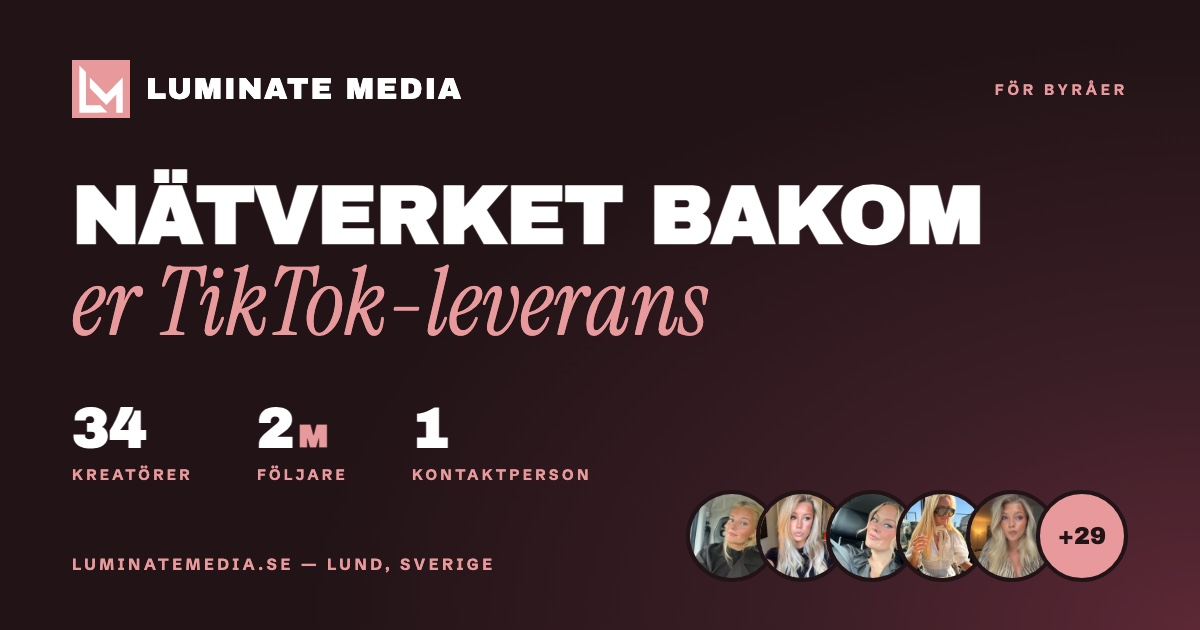
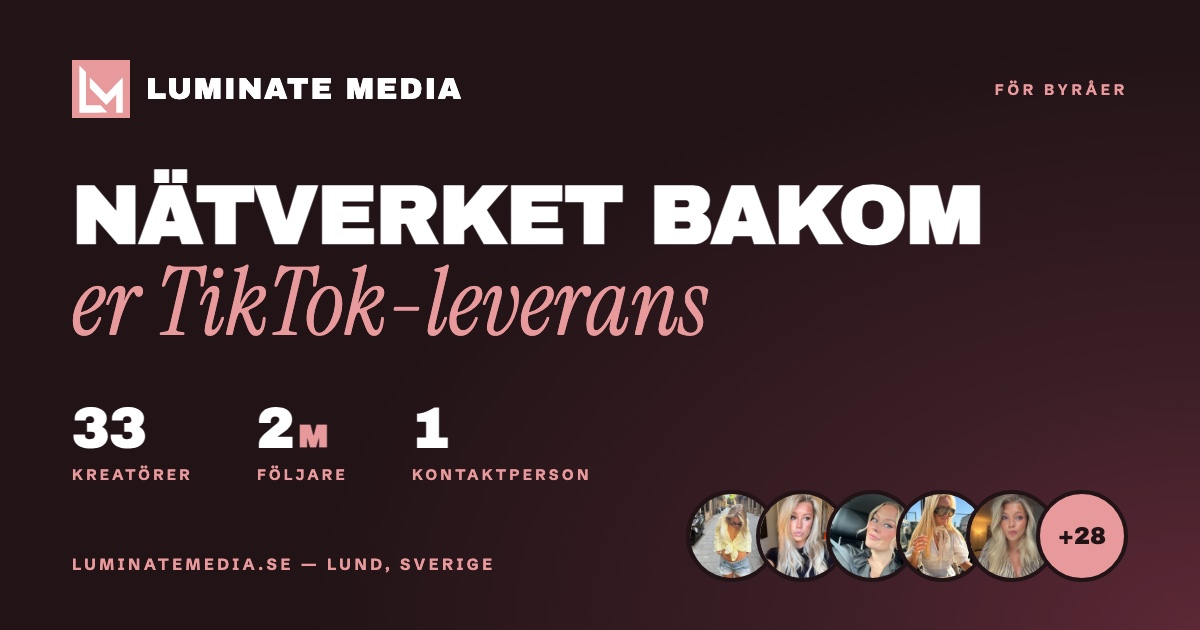
Siffror från Awaknd-presentationen 10 okt: case för två kampanjer 2026, Spark Ads-resultat, belagda källor, 33 kreatörer exakt, största videon 8 M, stale konton ur stats.json

Changed region(s): [[0.555, 0.7841, 0.6475, 0.9349], [0.0925, 0.6333, 0.1233, 0.7238]]

diff --git a/index.html b/index.html
@@ -174,7 +174,7 @@
    "name": "Hur mycket räckvidd ger en svensk TikTok-kreatör?",
    "acceptedAnswer": {
     "@type": "Answer",
-    "text": "Medianen i vårt nätverk är cirka 35 000 visningar per video. Ett konto i toppklassen 190–300K följare når omkring 77 000 visningar per video, medan ett mikrokonto på 5–20K följare når omkring 27 000. Räckvidd följer alltså inte följarantalet rakt av — vi publicerar hela mätningen öppet på vår benchmarksida."
+    "text": "Medianen i vårt nätverk är cirka 30 000 visningar per video. Ett konto i toppklassen, över 150K följare, når omkring 70 000 visningar per video, medan ett mikrokonto på 5–20K följare når omkring 20 000. Räckvidd följer alltså inte följarantalet rakt av — vi publicerar hela mätningen öppet på vår benchmarksida."
    }
   },
   {
@@ -190,7 +190,7 @@
    "name": "Vad är Spark Ads?",
    "acceptedAnswer": {
     "@type": "Answer",
-    "text": "Spark Ads innebär att ni annonserar med kreatörens organiska video från ert eget annonskonto, med hennes namn och engagemang kvar. Hos oss köps rättigheterna först efter publicering — ni har 14 dagar på er att välja vilka videor ni vill förstärka, med de organiska siffrorna framför er. Påslaget är 25 % av grundpriset för 30 dagar och upp till 90 % för ett år."
+    "text": "Spark Ads innebär att ni annonserar med kreatörens organiska video från ert eget annonskonto, med hennes namn och engagemang kvar. Hos oss köps rättigheterna först efter publicering — ni har 14 dagar på er att välja vilka videor ni vill förstärka, med de organiska siffrorna framför er. Påslaget är 25 % av grundpriset för 30 dagar och upp till 90 % för ett år. I vår höstkampanj 2026 gav Spark Ads 3,1 gånger den organiska räckvidden på en vecka, och ett klick kostade 0,75 kr mot runt 10 kr i branschsnitt."
    }
   },
   {
@@ -520,6 +520,7 @@ nav.scrolled{
 @media (max-width:720px){.sub-grid{grid-template-columns:1fr}}
 .sub{border-top:1px solid rgba(255,255,255,.28);padding:20px 0}
 .sub .label{display:block;margin-bottom:8px;color:var(--ink)}
+.sub small{display:block;margin-top:8px;font-size:11px;letter-spacing:.02em;opacity:.7}
 .sub p{font-size:15.5px;font-weight:500;line-height:1.7}
 .svc-body .book{margin-top:30px}
 
@@ -1090,19 +1091,19 @@ body.bm-open{overflow:hidden}
       <div class="stat-lbl">Totala likes</div>
     </div>
     <div class="stat reveal" style="transition-delay:.16s">
-      <div class="stat-num" id="stat-creators" data-target="30" data-suffix="+">30<small>+</small></div>
+      <div class="stat-num" id="stat-creators" data-target="33" data-suffix="">33<small></small></div>
       <div class="stat-lbl">Kreatörer i nätverket</div>
     </div>
     <div class="stat reveal" style="transition-delay:.24s">
-      <div class="stat-num" data-target="13" data-suffix="M">13<small>M</small></div>
+      <div class="stat-num" data-target="8" data-suffix="M">8<small>M</small></div>
       <div class="stat-lbl">Visningar — största videon</div>
     </div>
   </div>
   <div class="stat-chips reveal">
     <span class="chip chip-growth" id="growth-chip" hidden></span>
-    <span class="chip">≈1,5M visningar när alla postar en video</span>
+    <span class="chip" id="reach-chip">≈1,5M visningar när alla postar en video</span>
     <span class="chip">Rosterförslag inom 48 timmar</span>
-    <span class="chip">11 kreatörer med videor över 1M visningar</span>
+    <span class="chip">25+ kreatörer med videor över 1M visningar</span>
     <span class="chip">Mode · Beauty · Lifestyle</span>
   </div>
   <p class="stat-note reveal"><strong>Varje siffra på den här sidan hämtades från TikTok i natt.</strong> Vi läser av alla kreatörers konton automatiskt varje dygn. Snittvisningar räknas på de senaste 20 videorna per kreatör — inga gamla genomsnitt, inga påhittade räckviddstal.</p>
@@ -1167,7 +1168,7 @@ body.bm-open{overflow:hidden}
       <div class="svc-body">
         <p>TikTok är där er nästa kund redan är — men räckvidd köper man inte, den förtjänas genom rätt creators med rätt innehåll. Vi gör det enkelt för er att vara där, utan att bygga egen kompetens eller lägga interna timmar.</p>
         <div class="sub-grid">
-          <div class="sub"><span class="label">Varför creators</span><p>En rekommendation från rätt creator väger tyngre än någon annons. Creators har trovärdigheten och relationen till målgruppen som varumärken inte kan köpa sig till — vi ser till att den trovärdigheten arbetar för er.</p></div>
+          <div class="sub"><span class="label">Varför creators</span><p>En rekommendation från rätt creator väger tyngre än någon annons: 69 % litar mer på en rekommendation från en vän eller influencer än på varumärket självt, och 53 % av dem som ser influencerreklam har köpt något en influencer tipsat om. Den trovärdigheten kan ett varumärke inte köpa sig till — vi ser till att den arbetar för er.<small>Matter Communications 2023 · BEUC 2023, åtta EU-länder inkl. Sverige</small></p></div>
           <div class="sub"><span class="label">En partner, hela vägen</span><p>Strategi, urval, produktion, publicering, annonsering och rapport — ett avtal, en kontaktperson, ett ansvar. Ni behöver inte koordinera mellan byråer, creators och plattformar. Det gör vi.</p></div>
           <div class="sub"><span class="label">Er insats</span><p>Ni godkänner manus och video — resten sköter vi. En typisk kampanj kostar er ett fåtal timmar totalt, från brief till slutrapport.</p></div>
         </div>
@@ -1314,6 +1315,17 @@ body.bm-open{overflow:hidden}
   <h2 class="reveal">Räknat på <em class="acc">riktiga resultat</em></h2>
 
   <div class="case-item">
+    <p class="case-intro reveal">Två kampanjer 2026 — tio kreatörer, elva reklamvideor. Organiskt först, sedan Spark Ads på det som redan bar.</p>
+    <div class="case-nums">
+      <div class="cn-row reveal"><b class="case-num" data-cn="1.48" data-dec="2" data-suf=" M">1,48 M</b><span>visningar — 2 095 sparningar, 754 delningar</span></div>
+      <div class="cn-row reveal" style="transition-delay:.08s"><b class="case-num">+17 %</b><span>engagemang mot kreatörernas vanliga videor — reklam tappar normalt 13 %</span></div>
+      <div class="cn-row reveal" style="transition-delay:.16s"><b class="case-num" data-cn="3.1" data-dec="1" data-suf="×">3,1×</b><span>räckvidd på en vecka när Spark Ads lades på</span></div>
+      <div class="cn-row reveal" style="transition-delay:.24s"><b class="case-num" data-cn="0.75" data-dec="2" data-suf=" kr">0,75 kr</b><span>per klick — mot runt 10 kr i branschsnitt</span></div>
+    </div>
+    <p class="case-line reveal">Höstkampanjen: sju videor fick 226 137 visningar på elva dagar utan annonsbudget. Spark Ads på vinnarna gav 475 663 visningar till på sju dagar. Åtta av elva videor slog kreatörens eget engagemang — reklam generellt klarar det tre gånger av tio. Vårkampanjen: fyra videor, 250 100 visningar, helt organiskt.</p>
+  </div>
+
+  <div class="case-item">
     <p class="case-intro reveal">JBJ Clothing — fyra creator-videos, en höstkampanj.</p>
     <div class="case-nums">
       <div class="cn-row reveal"><b class="case-num" data-cn="968800" data-suf="">968 800</b><span>organiska visningar</span></div>
@@ -1326,14 +1338,14 @@ body.bm-open{overflow:hidden}
   <div class="case-item">
     <p class="case-intro reveal">The Perfume Brand — parfym i stället för arvode.</p>
     <div class="case-nums">
-      <div class="cn-row reveal"><b class="case-num" data-cn="108617" data-suf="">108 617</b><span>visningar</span></div>
-      <div class="cn-row reveal" style="transition-delay:.08s"><b class="case-num" data-cn="7.6" data-dec="1" data-suf=" %">7,6 %</b><span>engagemang — mot 4–5 % branschsnitt</span></div>
+      <div class="cn-row reveal"><b class="case-num" data-cn="111614" data-suf="">111 614</b><span>visningar</span></div>
+      <div class="cn-row reveal" style="transition-delay:.08s"><b class="case-num" data-cn="7.5" data-dec="1" data-suf=" %">7,5 %</b><span>engagemang — mot 4–5 % branschsnitt</span></div>
       <div class="cn-row reveal" style="transition-delay:.16s"><b class="case-num">3–10×</b><span>fler visningar än samma summa som köpt annons</span></div>
     </div>
     <p class="case-line reveal">Kreatörerna fick parfym i stället för kontant arvode, så varumärkets insats var tillverkningskostnaden för flaskorna. Räknat mot vad samma summa hade gett som köpt annonsering gav de fyra publicerade videorna flera gånger räckvidden — och en kreatörs rekommendation på köpet. Upplägget passar när produkten i sig är attraktiv nog att bära samarbetet.</p>
   </div>
 
-  <p class="case-note reveal">Engagemang räknas likadant i båda casen: likes, kommentarer och delningar delat med visningar, mätt direkt på TikTok. Branschsnittet 4–5 % avser sponsrat innehåll på plattformen. Räckviddsjämförelsen utgår från publicerade CPM-nivåer för TikTok-annonsering 2026, ca 4–13 USD per 1 000 visningar, och visar hur många fler visningar samma insats gav organiskt. För Perfume Brand bygger den på vår egen uppskattning av produkternas tillverkningskostnad, inte på en uppgift från varumärket.</p>
+  <p class="case-note reveal">Kampanjerna 2026 redovisas utan varumärkesnamn; visningar, sparningar och delningar är avlästa direkt på TikTok 11 oktober 2026 och Spark Ads-siffrorna ur kampanjens annonskonto. Branschsnittet för klick, cirka 10 kr, är WebFX TikTok Marketing Benchmarks 2026. Engagemang räknas likadant i alla casen: likes, kommentarer och delningar delat med visningar, mätt direkt på TikTok. Branschsnittet 4–5 % avser sponsrat innehåll på plattformen. Räckviddsjämförelsen utgår från publicerade CPM-nivåer för TikTok-annonsering 2026, ca 4–13 USD per 1 000 visningar, och visar hur många fler visningar samma insats gav organiskt. För Perfume Brand bygger den på vår egen uppskattning av produkternas tillverkningskostnad, inte på en uppgift från varumärket.</p>
   <div class="reveal"><a class="book js-book" href="https://calendar.app.google/8vFghCDtFN2itfJU8" target="_blank" rel="noopener">Vi gör samma sak för er →</a></div>
 </section>
 
@@ -1351,7 +1363,7 @@ body.bm-open{overflow:hidden}
     </div>
     <div class="faq-item reveal">
       <h3>Hur mycket räckvidd ger en svensk TikTok-kreatör?</h3>
-      <p>Medianen i vårt nätverk är cirka 35 000 visningar per video. Ett konto i toppklassen 190–300K följare når omkring 77 000 visningar per video, medan ett mikrokonto på 5–20K följare når omkring 27 000. Räckvidd följer alltså inte följarantalet rakt av — vi publicerar hela mätningen öppet på vår benchmarksida.</p>
+      <p>Medianen i vårt nätverk är cirka 30 000 visningar per video. Ett konto i toppklassen, över 150K följare, når omkring 70 000 visningar per video, medan ett mikrokonto på 5–20K följare når omkring 20 000. Räckvidd följer alltså inte följarantalet rakt av — vi publicerar hela mätningen öppet på vår benchmarksida.</p>
     </div>
     <div class="faq-item reveal">
       <h3>Vad är skillnaden mellan UGC och influencer marketing?</h3>
@@ -1359,7 +1371,7 @@ body.bm-open{overflow:hidden}
     </div>
     <div class="faq-item reveal">
       <h3>Vad är Spark Ads?</h3>
-      <p>Spark Ads innebär att ni annonserar med kreatörens organiska video från ert eget annonskonto, med hennes namn och engagemang kvar. Hos oss köps rättigheterna först efter publicering — ni har 14 dagar på er att välja vilka videor ni vill förstärka, med de organiska siffrorna framför er. Påslaget är 25 % av grundpriset för 30 dagar och upp till 90 % för ett år.</p>
+      <p>Spark Ads innebär att ni annonserar med kreatörens organiska video från ert eget annonskonto, med hennes namn och engagemang kvar. Hos oss köps rättigheterna först efter publicering — ni har 14 dagar på er att välja vilka videor ni vill förstärka, med de organiska siffrorna framför er. Påslaget är 25 % av grundpriset för 30 dagar och upp till 90 % för ett år. I vår höstkampanj 2026 gav Spark Ads 3,1 gånger den organiska räckvidden på en vecka, och ett klick kostade 0,75 kr mot runt 10 kr i branschsnitt.</p>
     </div>
     <div class="faq-item reveal">
       <h3>Hur lång tid tar en kampanj?</h3>
@@ -1848,9 +1860,9 @@ Promise.all([
   if (le.dataset.done) le.innerHTML = fmt(lv, 0) + '<small>M+</small>';
   const ce = document.getElementById('stat-creators');
   if (ce && d.totals.creators) {
-    const cvv = Math.floor(d.totals.creators / 5) * 5;
+    const cvv = d.totals.creators;
     ce.dataset.target = cvv;
-    if (ce.dataset.done) ce.innerHTML = fmt(cvv, 0) + '<small>+</small>';
+    if (ce.dataset.done) ce.innerHTML = fmt(cvv, 0) + '<small></small>';
   }
   const dt = new Date(d.updated), MON = ['jan','feb','mars','april','maj','juni','juli','aug','sep','okt','nov','dec'];
   if (!isNaN(dt)) {
@@ -1865,6 +1877,10 @@ Promise.all([
     p.textContent = (v >= 1e5 ? Math.round(v/1e3) : ((Math.round(v/100)/10) + '').replace('.', ',')) + 'K följare';
   });
   if (V && V.creators) {
+    let reach = 0;
+    for (const h in d.creators) { const c = V.creators[h]; if (c && c.avg) reach += c.avg; }
+    const rc = document.getElementById('reach-chip');
+    if (rc && reach > 0) rc.textContent = '≈' + (Math.round(reach / 1e5) / 10 + '').replace('.', ',') + 'M visningar när alla postar en video';
     const kv = v => (v >= 1e5 ? Math.round(v/1e3) : (Math.round(v/100)/10 + '').replace('.', ',')) + 'K';
     document.querySelectorAll('.ccard[data-handle]').forEach(card => {
       const c = V.creators[card.dataset.handle];

diff --git a/benchmark.html b/benchmark.html
@@ -4,7 +4,7 @@
 <meta charset="UTF-8">
 <meta name="viewport" content="width=device-width, initial-scale=1.0">
 <title>TikTok-benchmark: mode &amp; beauty i Sverige — Luminate Media</title>
-<meta name="description" content="Hur många visningar ger en svensk TikTok-kreatör per video? Medianvisningar per storleksklass — ett toppkonto når 3,3× så många som ett mikrokonto. Mätt på 32 svenska kreatörer inom mode och beauty, 11 oktober 2026.">
+<meta name="description" content="Hur många visningar ger en svensk TikTok-kreatör per video? Medianvisningar per storleksklass — ett toppkonto når 2,4× så många som ett mikrokonto. Mätt på 31 svenska kreatörer inom mode och beauty, 11 oktober 2026.">
 <link rel="icon" href="/favicon.ico" sizes="48x48">
 <link rel="icon" type="image/png" href="/assets/luminate-icon-96.png" sizes="96x96">
 <link rel="icon" type="image/png" href="/assets/luminate-icon-192.png" sizes="192x192">
@@ -15,7 +15,7 @@
 <meta property="og:type" content="article">
 <meta property="og:url" content="https://www.luminatemedia.se/benchmark.html">
 <meta property="og:title" content="TikTok-benchmark: mode &amp; beauty i Sverige">
-<meta property="og:description" content="En video från ett toppkonto når 3,3× så många som en video från ett mikrokonto — 68 060 mot 20 380 visningar. Mätt på 32 svenska kreatörer.">
+<meta property="og:description" content="En video från ett toppkonto når 2,4× så många som en video från ett mikrokonto — 68 060 mot 28 923 visningar. Mätt på 31 svenska kreatörer.">
 <meta property="og:image" content="https://www.luminatemedia.se/assets/og-benchmark.jpg">
 <meta name="twitter:card" content="summary_large_image">
 <link rel="preload" href="/assets/fonts/archivo-black.woff2" as="font" type="font/woff2" crossorigin>
@@ -98,11 +98,11 @@ display:flex;justify-content:space-between;gap:12px;flex-wrap:wrap}
 
   <div class="key">
     <div class="key-fig">
-      <b>3,3×</b>
+      <b>2,4×</b>
       <span>så mycket räckvidd ger<br>en video från ett toppkonto</span>
     </div>
     <div class="key-body">
-      <p class="key-line"><strong>68 060</strong> visningar från ett konto i toppklassen. <strong>20 380</strong> från ett mikrokonto. För att nå lika långt behövs alltså tre mikrokonton — tre samarbeten, tre manus och tre tidplaner i stället för ett.</p>
+      <p class="key-line"><strong>68 060</strong> visningar från ett konto i toppklassen. <strong>28 923</strong> från ett mikrokonto. För att nå lika långt behövs alltså tre mikrokonton — tre samarbeten, tre manus och tre tidplaner i stället för ett.</p>
       <p class="key-sub">Toppkontona bär dessutom igenkänning. En profil publiken redan känner konverterar annorlunda när videon förstärks som Spark Ad, och det är där annonsbudgeten betalar sig.</p>
     </div>
   </div>
@@ -116,10 +116,10 @@ display:flex;justify-content:space-between;gap:12px;flex-wrap:wrap}
     <tbody>
       <tr>
         <th scope="row">5–20K</th>
-        <td class="num big">20 380</td>
-        <td class="bar"><span style="width:30%"></span></td>
-        <td class="num dim">6</td>
-        <td class="num dim">1,65×</td>
+        <td class="num big">28 923</td>
+        <td class="bar"><span style="width:42%"></span></td>
+        <td class="num dim">5</td>
+        <td class="num dim">1,69×</td>
       </tr>
       <tr>
         <th scope="row">20–60K</th>
@@ -152,7 +152,7 @@ display:flex;justify-content:space-between;gap:12px;flex-wrap:wrap}
     </tbody>
   </table>
   </div>
-  <p class="note"><strong>Metod:</strong> 32 svenska TikTok-kreatörer inom mode, beauty och lifestyle — samtliga i Luminate Medias nätverk. Snittvisningar räknas på de senaste 20 videorna per kreatör, hämtade direkt från TikTok 11 oktober 2026. Vi visar median i varje klass så att en enskild viral video inte drar upp resultatet. Hela nätverkets median: 32 275 visningar per video. Kolumnen längst till höger visar visningar per följare — mikrokonton ligger högre där, men når färre personer totalt, och det är totalen som avgör en kampanjs räckvidd. Underlaget är vårt eget nätverk, inte ett slumpmässigt urval av svenska konton — läs siffrorna som en branschindikation, inte som officiell statistik.</p>
+  <p class="note"><strong>Metod:</strong> 31 svenska TikTok-kreatörer inom mode, beauty och lifestyle — samtliga i Luminate Medias nätverk. Snittvisningar räknas på de senaste 20 videorna per kreatör, hämtade direkt från TikTok 11 oktober 2026. Vi visar median i varje klass så att en enskild viral video inte drar upp resultatet. Hela nätverkets median: 32 693 visningar per video. Kolumnen längst till höger visar visningar per följare — mikrokonton ligger högre där, men når färre personer totalt, och det är totalen som avgör en kampanjs räckvidd. Underlaget är vårt eget nätverk, inte ett slumpmässigt urval av svenska konton — läs siffrorna som en branschindikation, inte som officiell statistik.</p>
 
   <div class="cta">
     <a class="book" href="https://calendar.app.google/8vFghCDtFN2itfJU8" target="_blank" rel="noopener">Boka möte →</a>

diff --git a/priser.html b/priser.html
@@ -52,7 +52,7 @@
    "name": "Vad kostar Spark Ads?",
    "acceptedAnswer": {
     "@type": "Answer",
-    "text": "Spark Ads-rättigheter är ett påslag på kreatörens grundpris: +25 % för 30 dagar upp till +90 % för 12 månader. Ni köper dem först efter publicering, när ni sett vilka videor som presterat organiskt. Mediebudgeten betalar ni själva i ert eget annonskonto."
+    "text": "Spark Ads-rättigheter är ett påslag på kreatörens grundpris: +25 % för 30 dagar upp till +90 % för 12 månader. Ni köper dem först efter publicering, när ni sett vilka videor som presterat organiskt. Mediebudgeten betalar ni själva i ert eget annonskonto. I höstkampanjen 2026 gav Spark Ads 3,1 gånger den organiska räckvidden på en vecka."
    }
   },
   {
@@ -68,7 +68,7 @@
    "name": "Vad kostar det jämfört med att köpa annonsräckvidd?",
    "acceptedAnswer": {
     "@type": "Answer",
-    "text": "Publicerade CPM-nivåer för TikTok-annonsering 2026 ligger på ungefär 4–13 USD per 1 000 visningar. Organisk räckvidd genom creators har i våra kampanjer legat väsentligt under det, samtidigt som en rekommendation från en kreatör bär en trovärdighet en annons inte har."
+    "text": "Publicerade CPM-nivåer för TikTok-annonsering 2026 ligger på ungefär 4–13 USD per 1 000 visningar. Organisk räckvidd genom creators har i våra kampanjer legat väsentligt under det, samtidigt som en rekommendation från en kreatör bär en trovärdighet en annons inte har. När vi lade Spark Ads på kampanjvideorna hösten 2026 kostade ett klick 0,75 kr mot runt 10 kr i branschsnitt."
    }
   }
  ]
@@ -280,6 +280,7 @@ display:flex;justify-content:space-between;gap:12px;flex-wrap:wrap}
   </table>
   </div>
   <p class="note">Mediebudgeten betalar ni själva i ert eget annonskonto och äger den fullt ut. Vill ni att vi sätter upp och optimerar kampanjerna tar vi 15 % av mediespenden.</p>
+  <p class="note">I vår höstkampanj 2026 gav Spark Ads 3,1 gånger den organiska räckvidden på en vecka. Ett klick kostade 0,75 kr mot runt 10 kr i branschsnitt, och en tittare som stannade i sex sekunder 0,06 kr — under TikToks eget pris för en vanlig visning.</p>
 
   <h2>Räkneexempel</h2>
   <p class="intro">Färdiga upplägg med organiska rättigheter, inklusive de 3 kreatörerna som följer med utan kostnad.</p>
@@ -326,7 +327,7 @@ display:flex;justify-content:space-between;gap:12px;flex-wrap:wrap}
     </div>
     <div class="faq-item">
       <h3>Vad kostar Spark Ads?</h3>
-      <p>Spark Ads-rättigheter är ett påslag på kreatörens grundpris: +25 % för 30 dagar upp till +90 % för 12 månader. Ni köper dem först efter publicering, när ni sett vilka videor som presterat organiskt. Mediebudgeten betalar ni själva i ert eget annonskonto.</p>
+      <p>Spark Ads-rättigheter är ett påslag på kreatörens grundpris: +25 % för 30 dagar upp till +90 % för 12 månader. Ni köper dem först efter publicering, när ni sett vilka videor som presterat organiskt. Mediebudgeten betalar ni själva i ert eget annonskonto. I höstkampanjen 2026 gav Spark Ads 3,1 gånger den organiska räckvidden på en vecka.</p>
     </div>
     <div class="faq-item">
       <h3>Finns det någon minsta beställning?</h3>
@@ -334,7 +335,7 @@ display:flex;justify-content:space-between;gap:12px;flex-wrap:wrap}
     </div>
     <div class="faq-item">
       <h3>Vad kostar det jämfört med att köpa annonsräckvidd?</h3>
-      <p>Publicerade CPM-nivåer för TikTok-annonsering 2026 ligger på ungefär 4–13 USD per 1 000 visningar. Organisk räckvidd genom creators har i våra kampanjer legat väsentligt under det, samtidigt som en rekommendation från en kreatör bär en trovärdighet en annons inte har.</p>
+      <p>Publicerade CPM-nivåer för TikTok-annonsering 2026 ligger på ungefär 4–13 USD per 1 000 visningar. Organisk räckvidd genom creators har i våra kampanjer legat väsentligt under det, samtidigt som en rekommendation från en kreatör bär en trovärdighet en annons inte har. När vi lade Spark Ads på kampanjvideorna hösten 2026 kostade ett klick 0,75 kr mot runt 10 kr i branschsnitt.</p>
     </div>
 
   <div class="cta">

diff --git a/byraer.html b/byraer.html
@@ -131,6 +131,7 @@ display:flex;justify-content:space-between;gap:12px;flex-wrap:wrap}
   <h2>Varför det <em>funkar</em></h2>
   <ul class="points">
     <li><b>Ni slipper bygga det själva</b>Ett nätverk är inte en lista. Det är relationer, avtal, prisbild och kunskap om vem som faktiskt levererar — byggt över tid, inte upphandlat på en vecka.</li>
+    <li><b>Bevisat i kampanj 2026</b>Två kampanjer, tio kreatörer, elva reklamvideor: 1,48 miljoner visningar, 17 % högre engagemang än kreatörernas vanliga videor och 3,1 gånger räckvidden på en vecka när Spark Ads lades på. Ett klick kostade 0,75 kr mot runt 10 kr i branschen.</li>
     <li><b>Data ni kan sätta i en offert</b>Varje kreatörs siffror mäts varje natt direkt från TikTok. Ni behöver aldrig gissa räckvidd eller skicka vidare påståenden ni inte kan belägga.</li>
     <li><b>Vi konkurrerar inte om er kund</b>Vi arbetar med varumärken direkt, men i den här modellen är ni kunden. Er relation, ert namn, er faktura.</li>
     <li><b>En kontaktperson</b>Ingen creator-koordinering, inga tio parallella trådar. Ni pratar med en person hos oss genom hela leveransen.</li>

diff --git a/scripts/build_pricing.py b/scripts/build_pricing.py
@@ -98,11 +98,11 @@ FAQ = [
  ("Varför kostar en kreatör mer än en annan?",
   "Vi prissätter på vad kontot faktiskt levererar, inte på följarantal. En kreatör med färre följare men högre snittvisningar kan kosta mer än en större kreatör som presterar sämre. Siffrorna hämtas från TikTok varje natt och räknas som snittet över de senaste 20 videorna."),
  ("Vad kostar Spark Ads?",
-  f"Spark Ads-rättigheter är ett påslag på kreatörens grundpris: +{SPARK[0]['up']} % för {SPARK[0]['label']} upp till +{SPARK[-1]['up']} % för {SPARK[-1]['label']}. Ni köper dem först efter publicering, när ni sett vilka videor som presterat organiskt. Mediebudgeten betalar ni själva i ert eget annonskonto."),
+  f"Spark Ads-rättigheter är ett påslag på kreatörens grundpris: +{SPARK[0]['up']} % för {SPARK[0]['label']} upp till +{SPARK[-1]['up']} % för {SPARK[-1]['label']}. Ni köper dem först efter publicering, när ni sett vilka videor som presterat organiskt. Mediebudgeten betalar ni själva i ert eget annonskonto. I höstkampanjen 2026 gav Spark Ads 3,1 gånger den organiska räckvidden på en vecka."),
  ("Finns det någon minsta beställning?",
   f"Nej. Ni kan boka en enskild video, och {FREE_N} mindre kreatörer följer alltid med utan kostnad oavsett hur stor beställningen är. Prisbilden blir dock bättre per video ju fler ni bokar."),
  ("Vad kostar det jämfört med att köpa annonsräckvidd?",
-  "Publicerade CPM-nivåer för TikTok-annonsering 2026 ligger på ungefär 4–13 USD per 1 000 visningar. Organisk räckvidd genom creators har i våra kampanjer legat väsentligt under det, samtidigt som en rekommendation från en kreatör bär en trovärdighet en annons inte har."),
+  "Publicerade CPM-nivåer för TikTok-annonsering 2026 ligger på ungefär 4–13 USD per 1 000 visningar. Organisk räckvidd genom creators har i våra kampanjer legat väsentligt under det, samtidigt som en rekommendation från en kreatör bär en trovärdighet en annons inte har. När vi lade Spark Ads på kampanjvideorna hösten 2026 kostade ett klick 0,75 kr mot runt 10 kr i branschsnitt."),
 ]
 faq_html = "\n".join(f'''    <div class="faq-item">
       <h3>{q}</h3>
@@ -278,6 +278,7 @@ display:flex;justify-content:space-between;gap:12px;flex-wrap:wrap}}
   </table>
   </div>
   <p class="note">Mediebudgeten betalar ni själva i ert eget annonskonto och äger den fullt ut. Vill ni att vi sätter upp och optimerar kampanjerna tar vi 15 % av mediespenden.</p>
+  <p class="note">I vår höstkampanj 2026 gav Spark Ads 3,1 gånger den organiska räckvidden på en vecka. Ett klick kostade 0,75 kr mot runt 10 kr i branschsnitt, och en tittare som stannade i sex sekunder 0,06 kr — under TikToks eget pris för en vanlig visning.</p>
 
   <h2>Räkneexempel</h2>
   <p class="intro">Färdiga upplägg med organiska rättigheter, inklusive de {FREE_N} kreatörerna som följer med utan kostnad.</p>

diff --git a/scripts/fetch_stats.py b/scripts/fetch_stats.py
@@ -33,7 +33,7 @@ UA = {
 root = pathlib.Path(__file__).resolve().parents[1]
 out = root / "data" / "stats.json"
 old = json.loads(out.read_text()) if out.exists() else {}
-creators = dict(old.get("creators", {}))
+creators = {h: c for h, c in old.get("creators", {}).items() if h in HANDLES}  # konton som lamnat natverket faller bort
 
 ok = 0
 for h in HANDLES:
